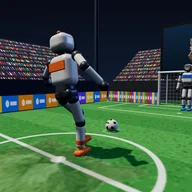
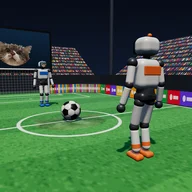
ロボサッカー: 本物の模様のボール（切頂二十面体）・ボールの方向の印と浮いた時の輪を作り直す・アイコンを撮り直す
Claude-Session: https://claude.ai/code/session_018pgCC2DscUXaVG3NhNKi5w

diff --git a/games/robo-soccer/index.html b/games/robo-soccer/index.html
@@ -65,8 +65,10 @@
     @media (max-height: 519px) and (min-aspect-ratio: 1/1) { #hud { top: calc(6px + env(safe-area-inset-top)); } }
     #rStreak { margin-top: 8px; font-size: 18px; font-weight: 800; color: #ffd43b; min-height: 1.2em; }
     /* ボールが画面の外にある時、ふちに出る矢印 */
-    #ballArrow { position: fixed; width: 44px; height: 44px; margin: -22px 0 0 -22px; z-index: 2; pointer-events: none; opacity: 0; transition: opacity .2s; filter: drop-shadow(0 2px 4px rgba(0,0,0,.5)); }
-    #ballArrow.on { opacity: .9; }
+    #ballArrow { position: fixed; width: 64px; height: 64px; margin: -32px 0 0 -32px; z-index: 2; pointer-events: none; opacity: 0; transform: scale(.7); transition: opacity .2s, transform .2s; filter: drop-shadow(0 2px 5px rgba(0,0,0,.45)); }
+    #ballArrow.on { opacity: 1; transform: scale(1); }
+    #ballArrow svg, #ballArrow img { position: absolute; inset: 0; width: 100%; height: 100%; }
+    #ballArrow img { inset: 16px; width: 32px; height: 32px; }
     /* スティック: 指を置いた所に出る */
     #joy { position: fixed; width: 120px; height: 120px; margin: -60px 0 0 -60px; pointer-events: none; z-index: 2; opacity: 0; transition: opacity .12s; }
     #joy.on { opacity: 1; }
@@ -123,7 +125,8 @@
       <div id="bar"><div id="barIn"></div></div>
       <div id="gg" hidden></div>
       <div id="streak" hidden><svg width="16" height="16" viewBox="0 0 24 24"><path d="M3 8l4.5 4L12 5l4.5 7L21 8l-2 11H5z" fill="#ffd43b"/></svg><span id="streakN"></span></div></div>
-    <svg id="ballArrow" viewBox="0 0 44 44"><g id="baRot"><path d="M40 22L30 15v14z" fill="#fff"/></g><circle cx="20" cy="22" r="10" fill="#fff" stroke="#222" stroke-width="1.6"/><path d="M20 17.5l3 2.2-1.1 3.5h-3.8l-1.1-3.5z" fill="#222"/></svg>
+    <!-- ボールが画面の外にある時の印: 丸い枠の中にボール、外側の三角がボールの向きを指す -->
+    <div id="ballArrow"><svg viewBox="0 0 64 64"><g id="baRot"><path d="M63.5 32L51.5 21.5v21z" fill="#fff" stroke="rgba(15,22,34,.5)" stroke-width="1"/></g><circle cx="32" cy="32" r="19.5" fill="rgba(15,22,34,.55)" stroke="#fff" stroke-width="2.5"/></svg><img id="baImg" alt=""></div>
     <svg id="joy" viewBox="0 0 120 120"><circle cx="60" cy="60" r="50" fill="rgba(255,255,255,.08)" stroke="rgba(255,255,255,.45)" stroke-width="3"/><circle id="knob" cx="60" cy="60" r="20" fill="rgba(255,255,255,.85)"/></svg>
     <svg id="hint" viewBox="0 0 110 110"><circle cx="55" cy="55" r="44" fill="rgba(255,255,255,.08)" stroke="rgba(255,255,255,.5)" stroke-width="3"/>
       <g fill="rgba(255,255,255,.55)"><path d="M55 4l7 9H48z"/><path d="M55 106l7-9H48z"/><path d="M4 55l9-7v14z"/><path d="M106 55l-9-7v14z"/></g>
@@ -784,22 +787,72 @@ function syncAll() {
   readBody(ball.body, ballV.cp, ballV.cq); ballV.pp.copy(ballV.cp); ballV.pq.copy(ballV.cq);
 }
 // ボール: 白と黒の五角形もようの球（Canvas で描く）
-const ballTex = canvasTex(512, 256, (x, W, H) => {
-  x.fillStyle = '#f7f7f7'; x.fillRect(0, 0, W, H);
-  x.fillStyle = '#1d1d1f';
-  const pent = (cx, cy, r) => { x.beginPath(); for (let i = 0; i < 5; i++) { const a = -Math.PI / 2 + i * Math.PI * 2 / 5; x.lineTo(cx + Math.cos(a) * r, cy + Math.sin(a) * r * 1.0); } x.closePath(); x.fill(); };
-  for (let i = 0; i < 5; i++) { pent(i * 102 + 51, 70, 26); pent(i * 102 + 0, 186, 26); pent(i * 102 + 102, 186, 26); }
-  pent(256, 8, 40); pent(256, 248, 40);
-  x.strokeStyle = 'rgba(0,0,0,.25)'; x.lineWidth = 2;
-  for (let i = 0; i < 10; i++) { x.beginPath(); x.moveTo(i * 51, 0); x.lineTo(i * 51 + 25, H); x.stroke(); }
-});
-const ballMesh = new THREE.Mesh(new THREE.SphereGeometry(BALL_R, 32, 20), new THREE.MeshStandardMaterial({ map: ballTex, roughness: 0.45 }));
+// ボール: 本物のサッカーボールと同じ切頂二十面体（黒い五角形12枚・白い六角形20枚）。
+// 球の上の向きごとに「一番近い面の中心」を調べて色を決めるので、どこもゆがまない。面と面の境目は縫い目にする
+const BALL_FACES = (() => {
+  const t = (1 + Math.sqrt(5)) / 2, n = v => { const l = Math.hypot(...v); return v.map(c => c / l); };
+  const ico = [[-1, t, 0], [1, t, 0], [-1, -t, 0], [1, -t, 0], [0, -1, t], [0, 1, t], [0, -1, -t], [0, 1, -t], [t, 0, -1], [t, 0, 1], [-t, 0, -1], [-t, 0, 1]].map(n);
+  const faces = [];
+  for (const v of ico) faces.push({ d: v, pent: true });
+  // 二十面体の三角形の中心（= 六角形の中心）: となり合う3頂点の組
+  for (let a = 0; a < 12; a++) for (let b = a + 1; b < 12; b++) for (let c = b + 1; c < 12; c++) {
+    const d = (p, q) => Math.hypot(p[0] - q[0], p[1] - q[1], p[2] - q[2]);
+    if (d(ico[a], ico[b]) < 1.1 && d(ico[b], ico[c]) < 1.1 && d(ico[a], ico[c]) < 1.1) faces.push({ d: n([0, 1, 2].map(k => ico[a][k] + ico[b][k] + ico[c][k])), pent: false });
+  }
+  return faces;
+})();
+// 向き (x,y,z) の色 [r,g,b]（0〜255）
+function ballColor(x, y, z) {
+  let b1 = -2, b2 = -2, f1 = null;
+  for (const f of BALL_FACES) { const d = f.d[0] * x + f.d[1] * y + f.d[2] * z; if (d > b1) { b2 = b1; b1 = d; f1 = f; } else if (d > b2) b2 = d; }
+  const edge = b1 - b2; // 境目に近いほど小さい
+  let c = f1.pent ? 32 : 245;
+  if (edge < 0.012) c = f1.pent ? 20 : 120; // 縫い目
+  else if (edge < 0.05 && !f1.pent) c = 245 - (0.05 - edge) * 900; // 縫い目のまわりは少しへこんで影になる
+  return [c, c, c + (f1.pent ? 4 : 2)];
+}
+const ballTex = (() => {
+  const W = 1024, H = 512, cv = document.createElement('canvas'); cv.width = W; cv.height = H;
+  const x = cv.getContext('2d'), img = x.createImageData(W, H), d = img.data;
+  for (let py = 0; py < H; py++) {
+    const th = (py + 0.5) / H * Math.PI, st = Math.sin(th), ct = Math.cos(th);
+    for (let px = 0; px < W; px++) {
+      const ph = (px + 0.5) / W * Math.PI * 2; // three.js の SphereGeometry と同じ並び
+      const c = ballColor(-Math.cos(ph) * st, ct, Math.sin(ph) * st), k = (py * W + px) * 4;
+      d[k] = c[0]; d[k + 1] = c[1]; d[k + 2] = c[2]; d[k + 3] = 255;
+    }
+  }
+  x.putImageData(img, 0, 0);
+  const tx = new THREE.CanvasTexture(cv); tx.colorSpace = THREE.SRGBColorSpace; tx.anisotropy = renderer.capabilities.getMaxAnisotropy();
+  return tx;
+})();
+// 小さなボールの絵（画面のふちの矢印に使う）: 正面から見た球に、光と影をつける
+function ballIcon(S) {
+  const cv = document.createElement('canvas'); cv.width = cv.height = S; const x = cv.getContext('2d'), img = x.createImageData(S, S), d = img.data, r = S / 2 - 1;
+  const rot = (a, b, c) => { const ca = Math.cos(0.5), sa = Math.sin(0.5); return [a * ca + c * sa, b, -a * sa + c * ca]; }; // 少し回して五角形をずらす
+  for (let py = 0; py < S; py++) for (let px = 0; px < S; px++) {
+    const u = (px + 0.5 - S / 2) / r, v = -(py + 0.5 - S / 2) / r, q = u * u + v * v, k = (py * S + px) * 4;
+    if (q > 1) { d[k + 3] = 0; continue; }
+    const w = Math.sqrt(1 - q), [a, b, c] = rot(u, v, w), col = ballColor(a, b, c);
+    const light = 0.55 + 0.45 * Math.max(0, -0.4 * u + 0.5 * v + 0.75 * w); // 左上から光
+    d[k] = col[0] * light; d[k + 1] = col[1] * light; d[k + 2] = col[2] * light; d[k + 3] = q > 0.94 ? 255 * (1 - q) / 0.06 : 255;
+  }
+  x.putImageData(img, 0, 0);
+  return cv.toDataURL();
+}
+const ballMesh = new THREE.Mesh(new THREE.SphereGeometry(BALL_R, 48, 32), new THREE.MeshStandardMaterial({ map: ballTex, roughness: 0.38, metalness: 0.02 }));
 ballMesh.castShadow = true; scene.add(ballMesh);
+$('baImg').src = ballIcon(64);
 const ballV = { pp: new THREE.Vector3(), pq: new THREE.Quaternion(), cp: new THREE.Vector3(), cq: new THREE.Quaternion() };
 syncAll();
 // ボールの位置の印（地面の薄い輪。浮いた時も場所が分かるように）
-const ballMark = new THREE.Mesh(new THREE.RingGeometry(0.28, 0.36, 40), new THREE.MeshBasicMaterial({ color: 0xffffff, transparent: true, opacity: 0.35, depthWrite: false }));
-ballMark.rotation.x = -Math.PI / 2; ballMark.position.y = 0.01; scene.add(ballMark);
+// ボールが浮いた時だけ、真下に白い輪を出す（どこに落ちるか分かるように）。地面にある時は本物の影だけ
+const markTex = canvasTex(128, 128, (x) => {
+  const g = x.createRadialGradient(64, 64, 34, 64, 64, 62); g.addColorStop(0, 'rgba(255,255,255,0)'); g.addColorStop(0.55, 'rgba(255,255,255,.9)'); g.addColorStop(1, 'rgba(255,255,255,0)');
+  x.fillStyle = g; x.beginPath(); x.arc(64, 64, 62, 0, 7); x.fill();
+});
+const ballMark = new THREE.Mesh(new THREE.PlaneGeometry(BALL_R * 2.6, BALL_R * 2.6), new THREE.MeshBasicMaterial({ map: markTex, transparent: true, opacity: 0, depthWrite: false }));
+ballMark.rotation.x = -Math.PI / 2; ballMark.position.y = 0.012; scene.add(ballMark);
 
 // ===== 粒（芝のかけら・紙ふぶき・土ぼこり）=====
 const dustTex = [0, 1, 2, 3].map(k => {
@@ -917,7 +970,7 @@ function updateBallArrow() {
     let dx = sx - cx, dy = sy - cy; if (behind) { dx = -dx; dy = -dy; if (Math.abs(dy) < 1) dy = 1; dy = Math.abs(dy) + (y1 - cy); }
     const k = Math.min((dx > 0 ? x1 - cx : x0 - cx) / (dx || 1e-6), (dy > 0 ? y1 - cy : y0 - cy) / (dy || 1e-6));
     const el = $('ballArrow'); el.style.left = (cx + dx * k).toFixed(1) + 'px'; el.style.top = (cy + dy * k).toFixed(1) + 'px';
-    $('baRot').setAttribute('transform', `rotate(${(Math.atan2(dy, dx) * 180 / Math.PI).toFixed(1)} 20 22)`);
+    $('baRot').setAttribute('transform', `rotate(${(Math.atan2(dy, dx) * 180 / Math.PI).toFixed(1)} 32 32)`);
   }
   if (off !== baOn) { baOn = off; $('ballArrow').classList.toggle('on', off); }
 }
@@ -1292,7 +1345,7 @@ function frame(now) {
   const a = acc / me.DT;
   for (const r of robots) for (const v of r.visuals) { v.group.position.lerpVectors(v.pp, v.cp, a); v.group.quaternion.slerpQuaternions(v.pq, v.cq, a); }
   ballMesh.position.lerpVectors(ballV.pp, ballV.cp, a); ballMesh.quaternion.slerpQuaternions(ballV.pq, ballV.cq, a);
-  ballMark.position.x = ballMesh.position.x; ballMark.position.z = ballMesh.position.z; ballMark.material.opacity = 0.35 * Math.max(0, 1 - (ballMesh.position.y - BALL_R) / 2);
+  ballMark.position.x = ballMesh.position.x; ballMark.position.z = ballMesh.position.z; ballMark.material.opacity = Math.min(0.55, Math.max(0, (ballMesh.position.y - BALL_R - 0.15) * 1.2));
   // 時間のゲージ（変わった時だけ書く）
   // 顔
   for (const r of robots) {
